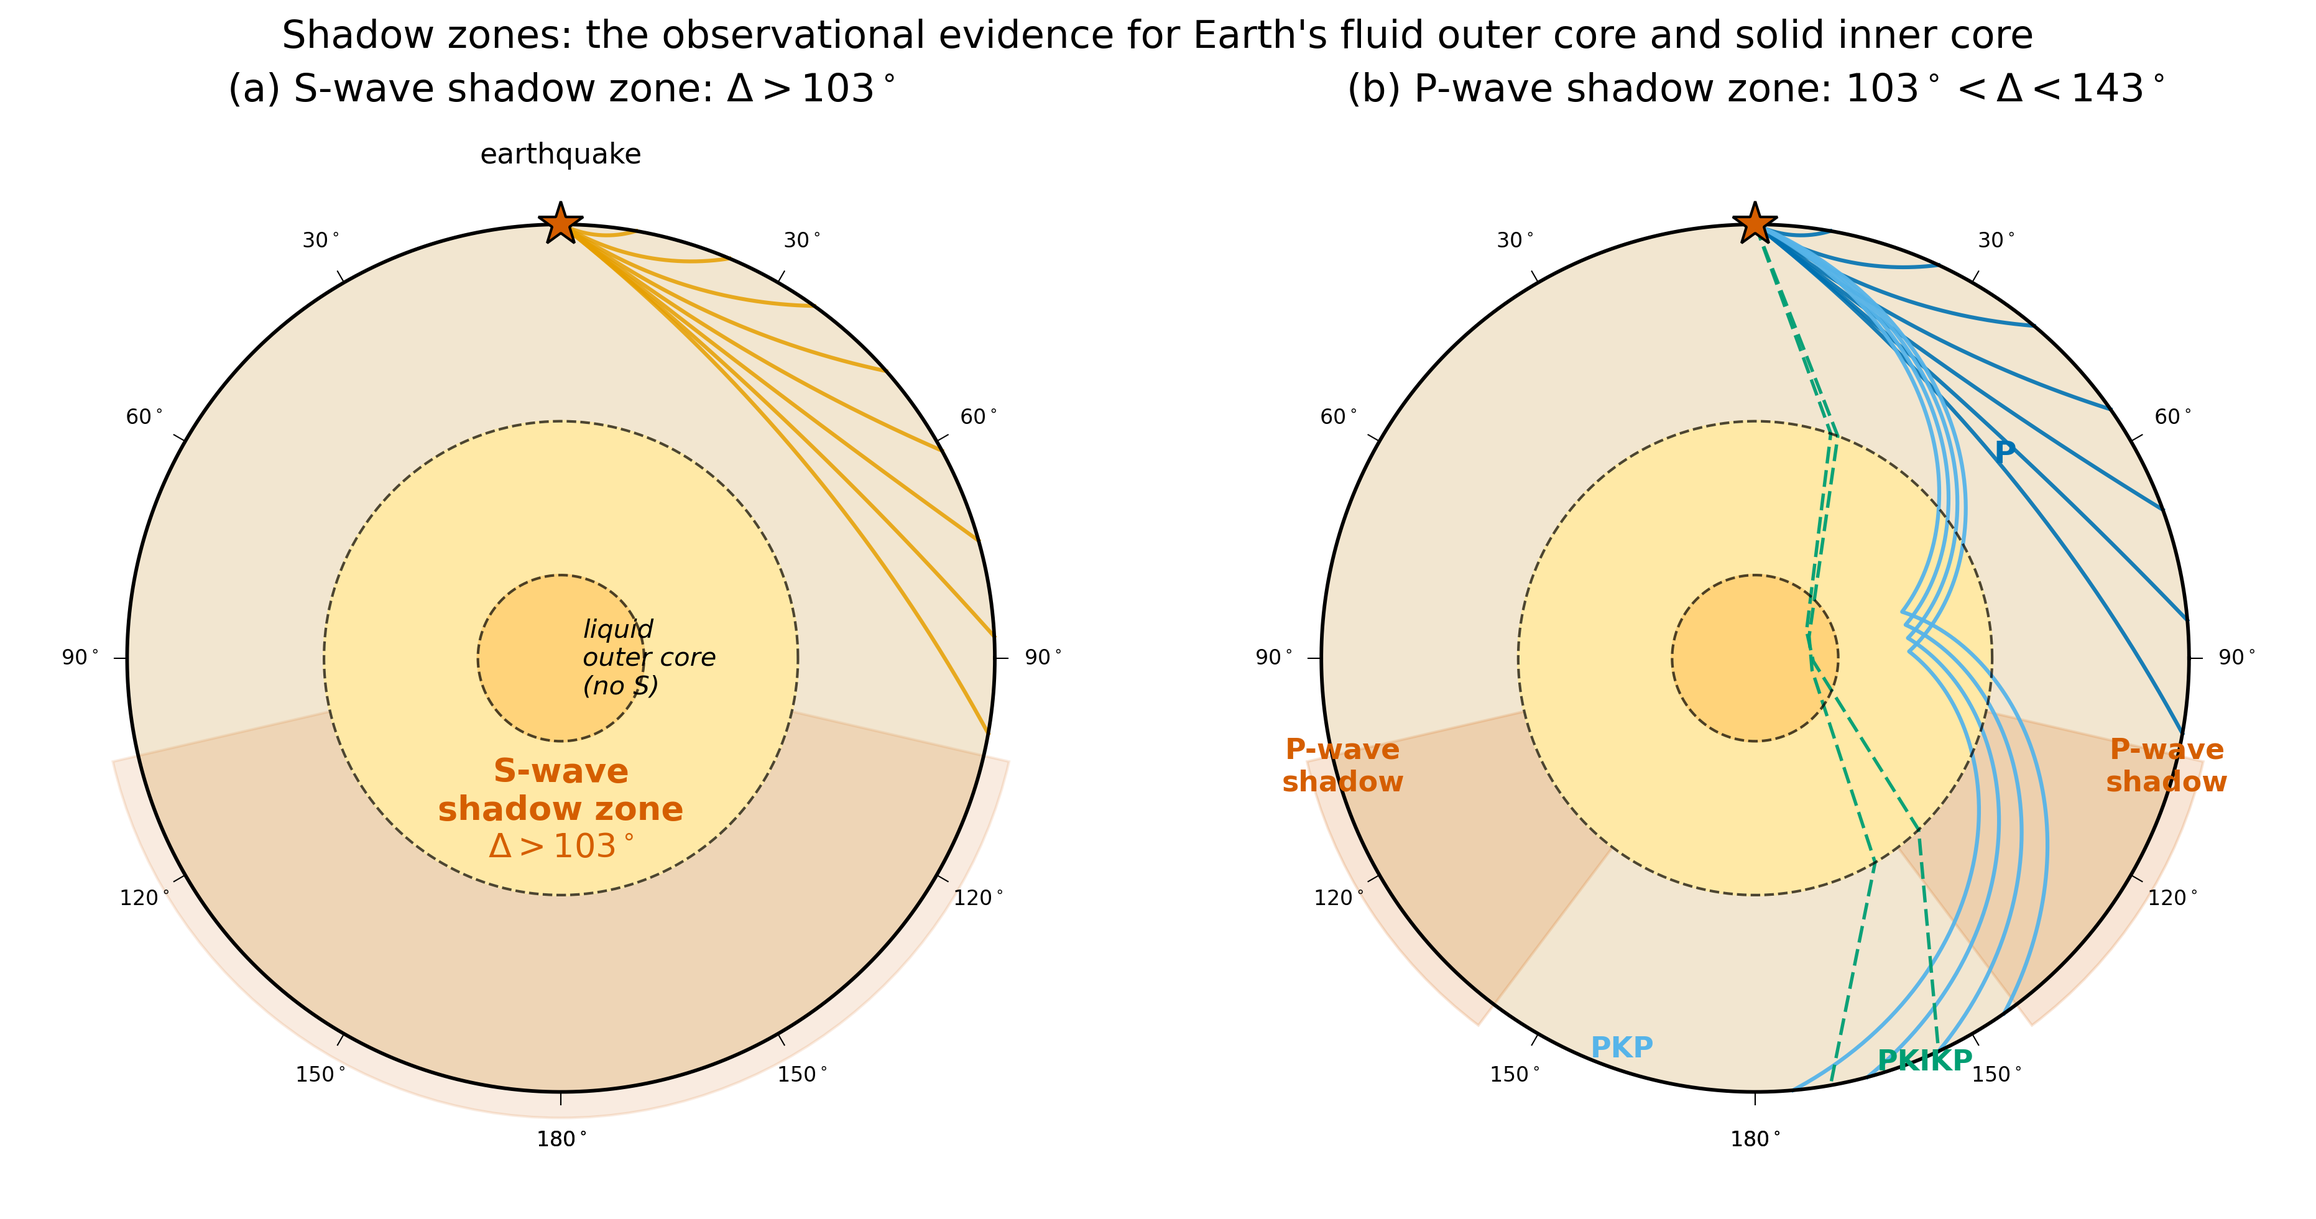
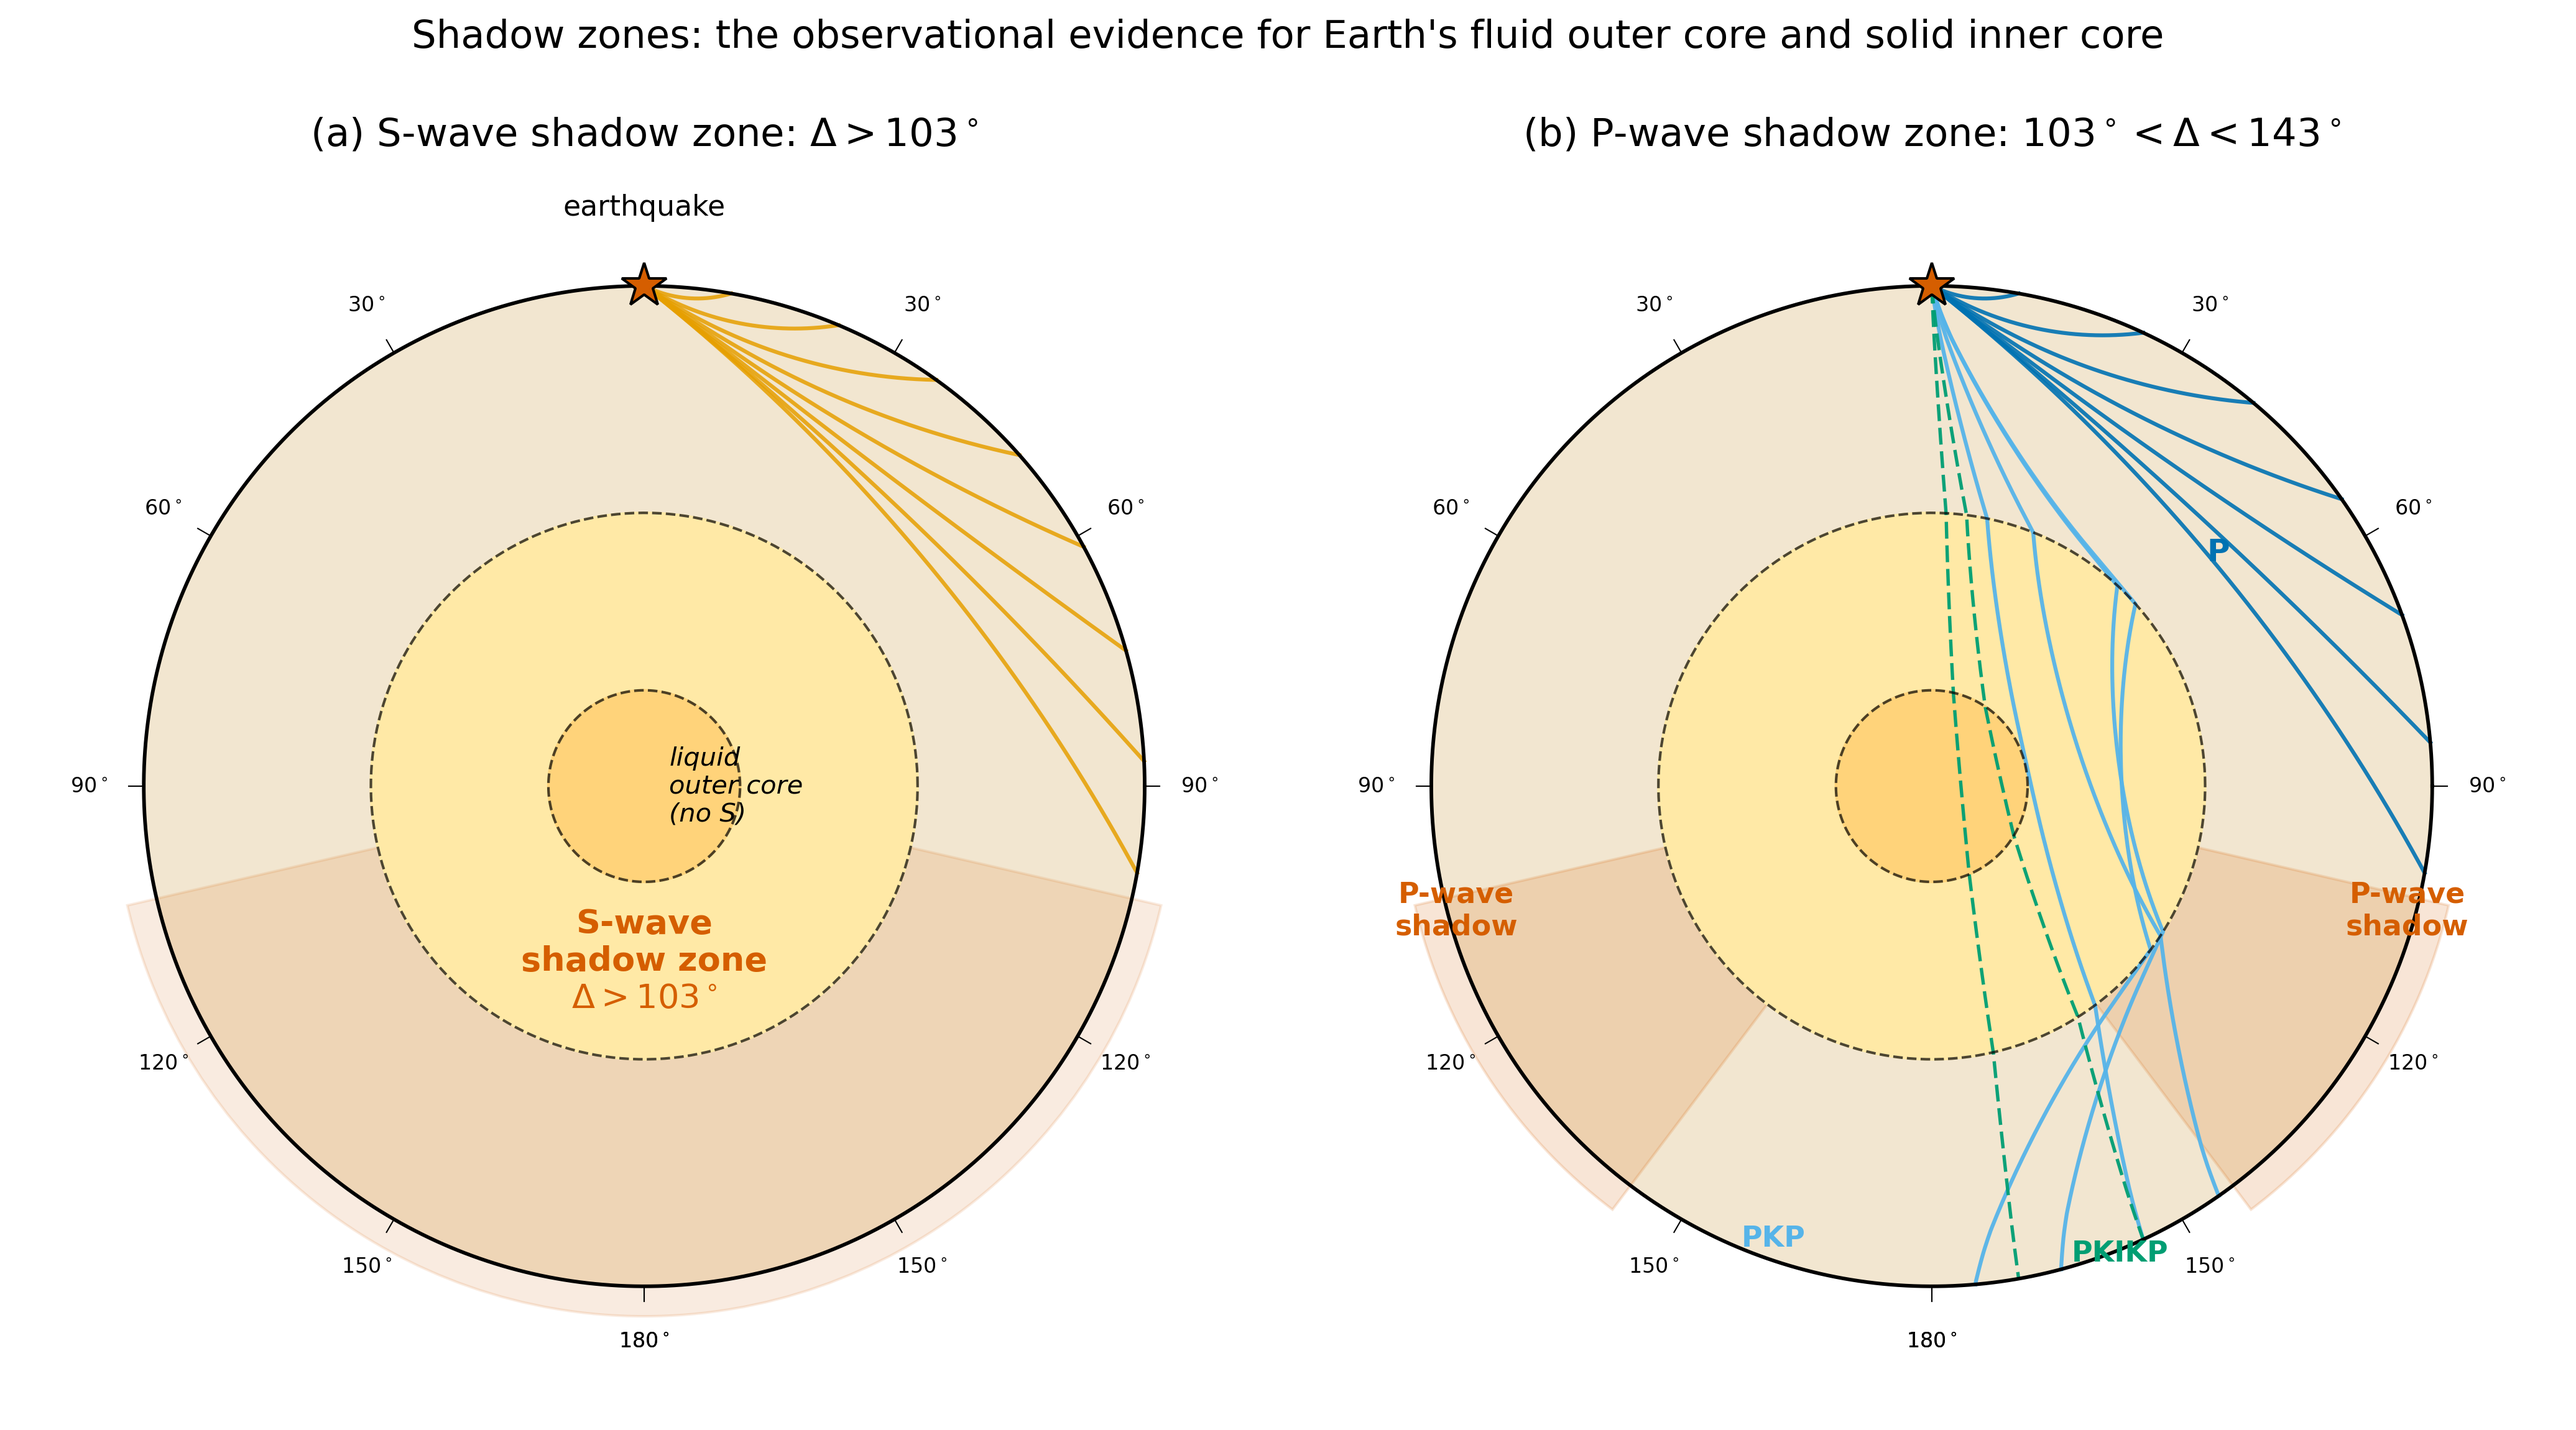
Fix PKP/PKIKP ray paths using obspy TauPy AK135
Replace hand-crafted circular-arc approximation for core phases
with real obspy.taup ray-path tracing (AK135 model). Rays now
show correct curvature, accurate boundary transitions at CMB/ICB,
and physically correct emergence angles at 143–180°.

diff --git a/assets/scripts/fig_11_shadow_zones.py b/assets/scripts/fig_11_shadow_zones.py
@@ -127,65 +127,122 @@ def mantle_ray(delta_deg, n=200, turn_frac=None):
     return x, y
 
 
-def core_refracted_ray(delta_deg, n=400, r_turn=0.65 * R_CMB):
-    """PKP-like ray: refracts into outer core, turns at r_turn, returns."""
-    delta = np.deg2rad(delta_deg)
-    # Descent leg in mantle
-    phi_src = np.pi / 2
-    # entry point to CMB at some phi1, exit at phi2; symmetric across middle
-    phi_half = delta / 2
-    # Mantle descending leg phi in [0, phi_m]
-    phi_m = 0.35 * delta
-    phi1 = np.linspace(0.0, phi_m, n // 4)
-    r1 = np.linspace(R_EARTH, R_CMB, n // 4)
-    # Refracted descent in outer core
-    phi2 = np.linspace(phi_m, phi_half, n // 4)
-    r2 = np.linspace(R_CMB, r_turn, n // 4)
-    # Upgoing refracted in outer core
-    phi3 = np.linspace(phi_half, delta - phi_m, n // 4)
-    r3 = np.linspace(r_turn, R_CMB, n // 4)
-    # Ascending leg in mantle
-    phi4 = np.linspace(delta - phi_m, delta, n // 4)
-    r4 = np.linspace(R_CMB, R_EARTH, n // 4)
-    phi_all = np.concatenate([phi1, phi2, phi3, phi4])
-    r_all = np.concatenate([r1, r2, r3, r4])
-    alpha = np.pi / 2 - phi_all
-    x = r_all * np.cos(alpha)
-    y = r_all * np.sin(alpha)
-    return x, y
+from obspy.taup import TauPyModel as _TauPyModel
+
+_MODEL = _TauPyModel(model="ak135")
+
+
+def _taup_ray_xy(phase, delta_deg, depth_km=10):
+    """Return (x, y) Cartesian arrays for a given phase and epicentral distance,
+    using obspy.taup ray paths. Source is placed at the top (phi=pi/2)."""
+    try:
+        arrivals = _MODEL.get_ray_paths(
+            source_depth_in_km=depth_km,
+            distance_in_degree=delta_deg,
+            phase_list=[phase],
+        )
+    except Exception:
+        return None, None
+    if not arrivals:
+        return None, None
+    path = arrivals[0].path
+    # path has fields: p (ray param), time, dist (rad), depth (km)
+    r = (R_EARTH - path["depth"])          # radius in km
+    phi_cw = np.rad2deg(path["dist"])      # degrees CW from source
+    xarr, yarr = _pt_arr(r, phi_cw)
+    return xarr, yarr
+
+
+def _pt_arr(r_arr, phi_cw_arr):
+    """Vectorised _pt."""
+    ang = np.pi/2 - np.deg2rad(phi_cw_arr)
+    return r_arr * np.cos(ang), r_arr * np.sin(ang)
+
+
+def _arc_between(x0, y0, x1, y1, r_t, n=120):
+    """Circular arc from (x0,y0) to (x1,y1) whose closest approach to the
+    origin equals r_t.  Concave toward the surface (correct for V increasing
+    with depth).  Returns (x_arr, y_arr)."""
+    mx, my = (x0 + x1) / 2.0, (y0 + y1) / 2.0
+    mid_r = np.sqrt(mx**2 + my**2)
+    if mid_r < 1.0:
+        t = np.linspace(0, 1, n)
+        return x0 + t*(x1-x0), y0 + t*(y1-y0)
+    ux, uy = mx / mid_r, my / mid_r
+
+    r0 = np.sqrt(x0**2 + y0**2)
+    dot_src = x0*ux + y0*uy
+    denom = 2.0*(r_t - dot_src)
+    if abs(denom) < 0.5:
+        t = np.linspace(0, 1, n)
+        return x0 + t*(x1-x0), y0 + t*(y1-y0)
+    d_c = (r_t**2 - r0**2) / denom
+    cx, cy = d_c*ux, d_c*uy
+    R_c = np.sqrt((x0-cx)**2 + (y0-cy)**2)
+
+    ang0 = np.arctan2(y0-cy, x0-cx)
+    ang1 = np.arctan2(y1-cy, x1-cx)
+    tx, ty = r_t*ux, r_t*uy
+    ang_t = np.arctan2(ty-cy, tx-cx)
+
+    def norm(a, ref):
+        return (a - ref) % (2*np.pi)
+
+    a1 = norm(ang1, ang0)
+    at = norm(ang_t, ang0)
+    dang = a1 if at <= a1 else a1 - 2*np.pi
+    t_arr = np.linspace(0.0, dang, n)
+    return cx + R_c*np.cos(ang0+t_arr), cy + R_c*np.sin(ang0+t_arr)
+
+
+def _pt(r, phi_cw):
+    """Cartesian point at radius r, phi_cw degrees clockwise from the top."""
+    ang = np.pi/2 - np.deg2rad(phi_cw)
+    return r*np.cos(ang), r*np.sin(ang)
+
+
+def core_refracted_ray(delta_deg, **_):
+    """PKP ray path from obspy.taup AK135."""
+    return _taup_ray_xy("PKP", delta_deg)
+
+
+def pkikp_ray(delta_deg, **_):
+    """PKIKP ray path from obspy.taup AK135."""
+    return _taup_ray_xy("PKIKP", delta_deg)
 
 
 def main(outpath):
-    fig, (ax_s, ax_p) = plt.subplots(1, 2, figsize=(13.0, 6.6))
-
-    # =============== Panel A: S-wave shadow zone ===============
+    fig, (ax_s, ax_p) = plt.subplots(1, 2, figsize=(14, 8),
+                                      facecolor="white")
     draw_layered_earth(ax_s)
-    # Mantle S rays (they cannot enter fluid outer core). Draw a few
-    # mantle-only rays up to Delta ~= 103 deg; beyond this the rays
-    # would need to traverse the outer core and are extinguished.
+    _plot_s_panel(ax_s)
+    draw_layered_earth(ax_p)
+    _plot_p_panel(ax_p)
+    fig.suptitle("Shadow zones: the observational evidence "
+                 "for Earth's fluid outer core and solid inner core",
+                 y=0.99, color=COLORS[6], fontsize=15)
+    fig.tight_layout()
+    fig.savefig(outpath, bbox_inches="tight")
+    plt.close(fig)
+    print(f"Saved: {outpath}")
+
+
+def _plot_s_panel(ax_s):
+    # Mantle S rays
     for delta in np.linspace(10, 100, 8):
         x, y = mantle_ray(delta)
         ax_s.plot(x, y, color=COLORS[1], lw=1.5, alpha=0.85)
-    # Shadow region wedge: phi from 103 deg left of source to the
-    # antipode (through the bottom)
     phi_src_deg = 90
-    shadow_start = phi_src_deg - 103  # = -13 deg measured CCW from x-axis
-    shadow_end = phi_src_deg + 103 - 360  # wraps around to the antipode side
-    # Easier: shade a wedge at the opposite side of Earth between
-    # (-103 deg from source) symmetrically
     wedge = Wedge(center=(0, 0), r=R_EARTH * 1.06,
                   theta1=phi_src_deg + 103 - 360,
                   theta2=phi_src_deg - 103,
                   color="#D55E00", alpha=0.12, zorder=0)
     ax_s.add_patch(wedge)
-    # Source star
     ax_s.plot(0, R_EARTH, marker="*", color=COLORS[4],
               markersize=18, markeredgecolor=COLORS[6], zorder=5)
     ax_s.annotate("earthquake", xy=(0, R_EARTH),
                   xytext=(0, R_EARTH + 900),
                   ha="center", fontsize=11, color=COLORS[6])
-
-    # Shadow-zone annotation
     ax_s.text(0, -R_EARTH * 0.35,
               "S-wave\nshadow zone\n$\\Delta > 103^\\circ$",
               ha="center", va="center", fontsize=13, color=COLORS[4],
@@ -193,9 +250,6 @@ def main(outpath):
     ax_s.text(R_EARTH * 0.05, R_ICB * 0.0,
               "liquid\nouter core\n(no S)",
               ha="left", va="center", fontsize=10, color=COLORS[6], style="italic")
-
-    # Distance ticks along the surface from source (top) down each side
-    # Left side: 0 -> 180 CCW; Right side: 0 -> 180 CW
     for side, sign in [("L", -1), ("R", +1)]:
         for d in np.arange(0, 181, 30):
             if d == 0:
@@ -210,7 +264,6 @@ def main(outpath):
                       color=COLORS[6], lw=0.5)
             ax_s.text(x_l, y_l, f"{d}$^\\circ$",
                       fontsize=8, ha="center", va="center", color=COLORS[6])
-
     ax_s.set_xlim(-R_EARTH * 1.25, R_EARTH * 1.25)
     ax_s.set_ylim(-R_EARTH * 1.25, R_EARTH * 1.25)
     ax_s.set_aspect("equal")
@@ -218,8 +271,8 @@ def main(outpath):
     ax_s.set_title("(a) S-wave shadow zone: $\\Delta > 103^\\circ$",
                    color=COLORS[6])
 
-    # =============== Panel B: P-wave shadow zone ===============
-    draw_layered_earth(ax_p)
+
+def _plot_p_panel(ax_p):
     # Mantle P rays up to ~100 deg
     for delta in np.linspace(10, 100, 7):
         x, y = mantle_ray(delta)
@@ -227,21 +280,15 @@ def main(outpath):
     # PKP rays that refract through outer core, emerging at ~143-180 deg
     for delta in [145, 155, 165, 175]:
         x, y = core_refracted_ray(delta)
-        ax_p.plot(x, y, color=COLORS[2], lw=1.5, alpha=0.95)
-    # PKIKP-like: through inner core
+        if x is not None:
+            ax_p.plot(x, y, color=COLORS[2], lw=1.5, alpha=0.95)
+    # PKIKP: passes through inner core
     for delta in [155, 170]:
-        delta_rad = np.deg2rad(delta)
-        # Simple four-segment schematic through all three layers
-        pts_r = [R_EARTH, R_CMB, R_ICB * 0.7, R_ICB * 0.7, R_CMB, R_EARTH]
-        pts_phi = [0.0, 0.12 * delta_rad, 0.40 * delta_rad,
-                   0.60 * delta_rad, 0.88 * delta_rad, delta_rad]
-        alpha_arr = np.pi / 2 - np.array(pts_phi)
-        rx = np.array(pts_r) * np.cos(alpha_arr)
-        ry = np.array(pts_r) * np.sin(alpha_arr)
-        ax_p.plot(rx, ry, color=COLORS[3], lw=1.3, alpha=0.95,
-                  linestyle=(0, (5, 2)))
-
-    # P shadow wedge: Delta in (103 deg, 143 deg), both sides
+        x, y = pkikp_ray(delta)
+        if x is not None:
+            ax_p.plot(x, y, color=COLORS[3], lw=1.3, alpha=0.95,
+                      linestyle=(0, (5, 2)))
+    # P shadow wedge
     for side in (+1, -1):
         theta1 = 90 - side * 143
         theta2 = 90 - side * 103
@@ -251,7 +298,6 @@ def main(outpath):
                       theta1=theta1, theta2=theta2,
                       color="#D55E00", alpha=0.16, zorder=0)
         ax_p.add_patch(wedge)
-
     ax_p.plot(0, R_EARTH, marker="*", color=COLORS[4],
               markersize=18, markeredgecolor=COLORS[6], zorder=5)
     ax_p.text(-R_EARTH * 0.95, -R_EARTH * 0.25,
@@ -262,15 +308,12 @@ def main(outpath):
               "P-wave\nshadow",
               ha="center", va="center", fontsize=11, color=COLORS[4],
               fontweight="bold")
-    # Label phases
     ax_p.text(-R_EARTH * 0.38, -R_EARTH * 0.92, "PKP",
               fontsize=11, color=COLORS[2], fontweight="bold")
     ax_p.text(R_EARTH * 0.28, -R_EARTH * 0.95, "PKIKP",
               fontsize=11, color=COLORS[3], fontweight="bold")
     ax_p.text(R_EARTH * 0.55, R_EARTH * 0.45, "P",
               fontsize=12, color=COLORS[0], fontweight="bold")
-
-    # Distance ticks
     for side, sign in [("L", -1), ("R", +1)]:
         for d in np.arange(0, 181, 30):
             if d == 0:
@@ -285,21 +328,12 @@ def main(outpath):
                       color=COLORS[6], lw=0.5)
             ax_p.text(x_l, y_l, f"{d}$^\\circ$",
                       fontsize=8, ha="center", va="center", color=COLORS[6])
-
     ax_p.set_xlim(-R_EARTH * 1.25, R_EARTH * 1.25)
     ax_p.set_ylim(-R_EARTH * 1.25, R_EARTH * 1.25)
     ax_p.set_aspect("equal")
     ax_p.axis("off")
     ax_p.set_title("(b) P-wave shadow zone: $103^\\circ < \\Delta < 143^\\circ$",
                    color=COLORS[6])
-
-    fig.suptitle("Shadow zones: the observational evidence "
-                 "for Earth's fluid outer core and solid inner core",
-                 y=0.99, color=COLORS[6], fontsize=15)
-    fig.tight_layout()
-    fig.savefig(outpath, bbox_inches="tight")
-    plt.close(fig)
-    print(f"Saved: {outpath}")
 
 
 if __name__ == "__main__":
